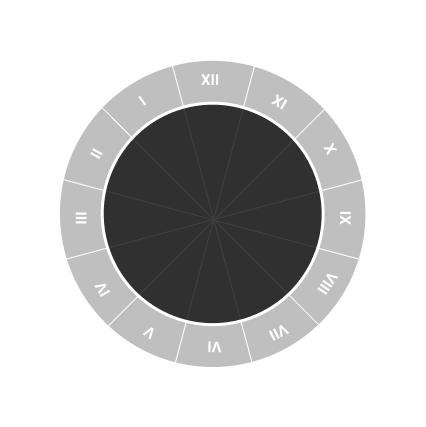
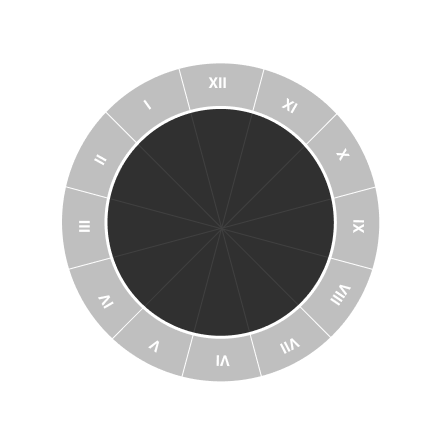
...

diff --git a/src/components/knob4.js b/src/components/knob4.js
@@ -1010,7 +1010,7 @@ class Knob4 extends Component {
 
   generateInterpetation = (toInterpret) => {
 
-    // check toInterpret for exaltation, detriment and domicile
+    // check toInterpret for combo descriptions as well as exaltation, detriment and domicile
 
     let interpretation = [
       {key: 'planet', val: '', values: []},

diff --git a/src/components/knob4.css b/src/components/knob4.css
@@ -160,7 +160,7 @@ canvas {
   }
 
   .KnobBoxTop {
-    width: 106vw;
+    width: 105vw;
     min-height: 109vh;
   }
 
